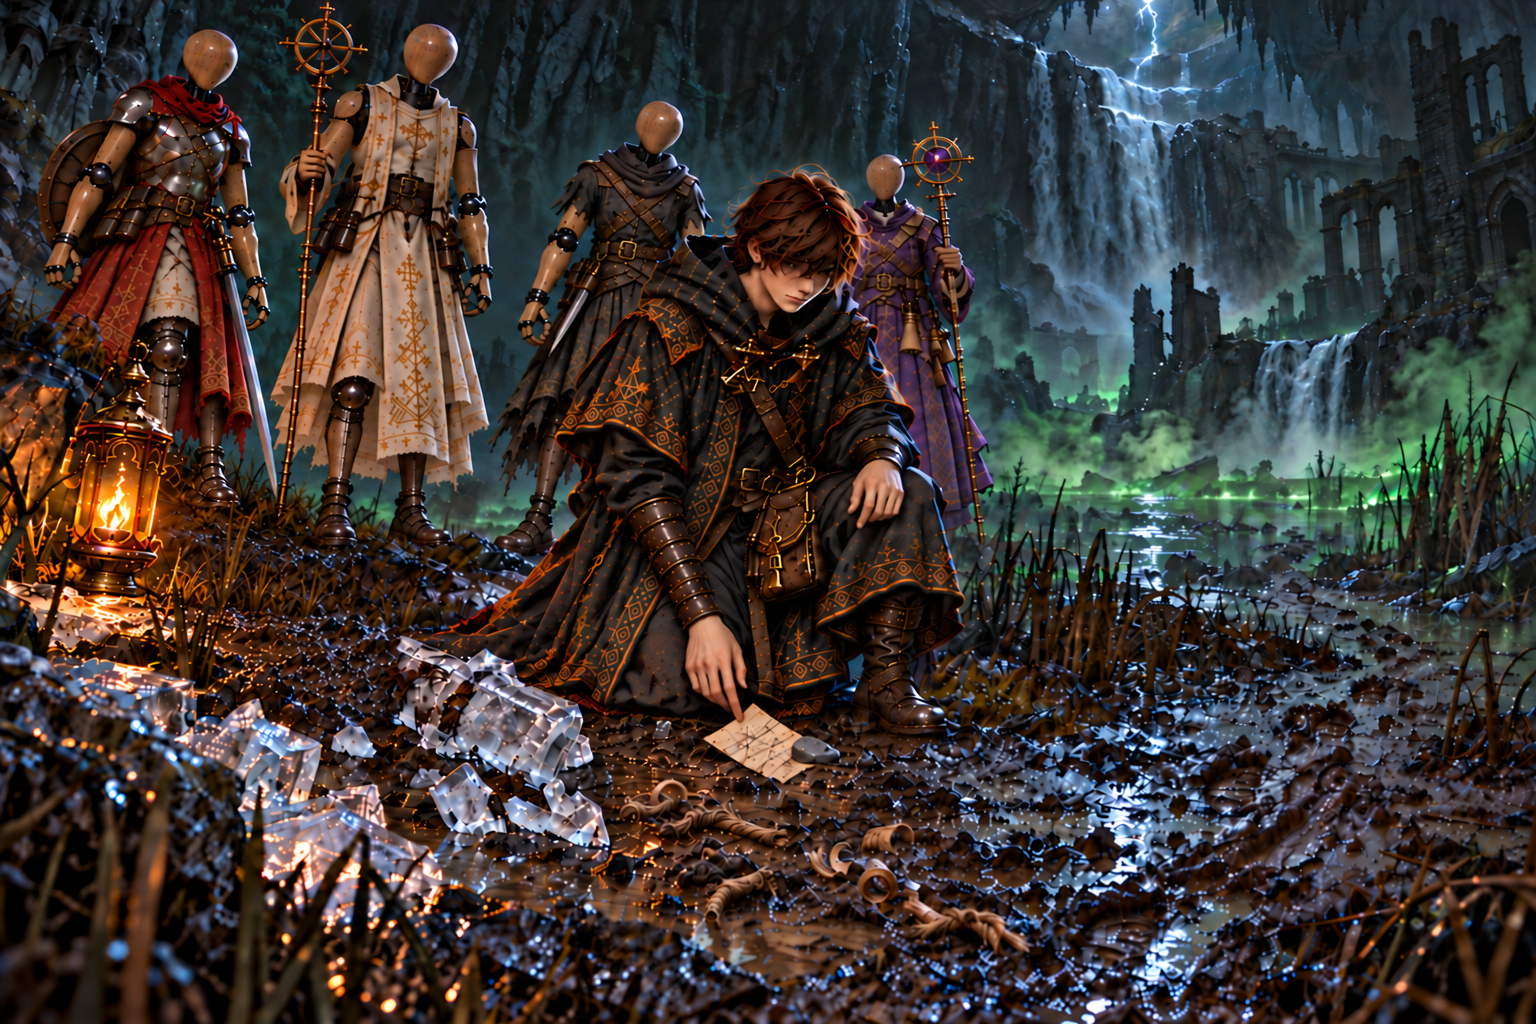
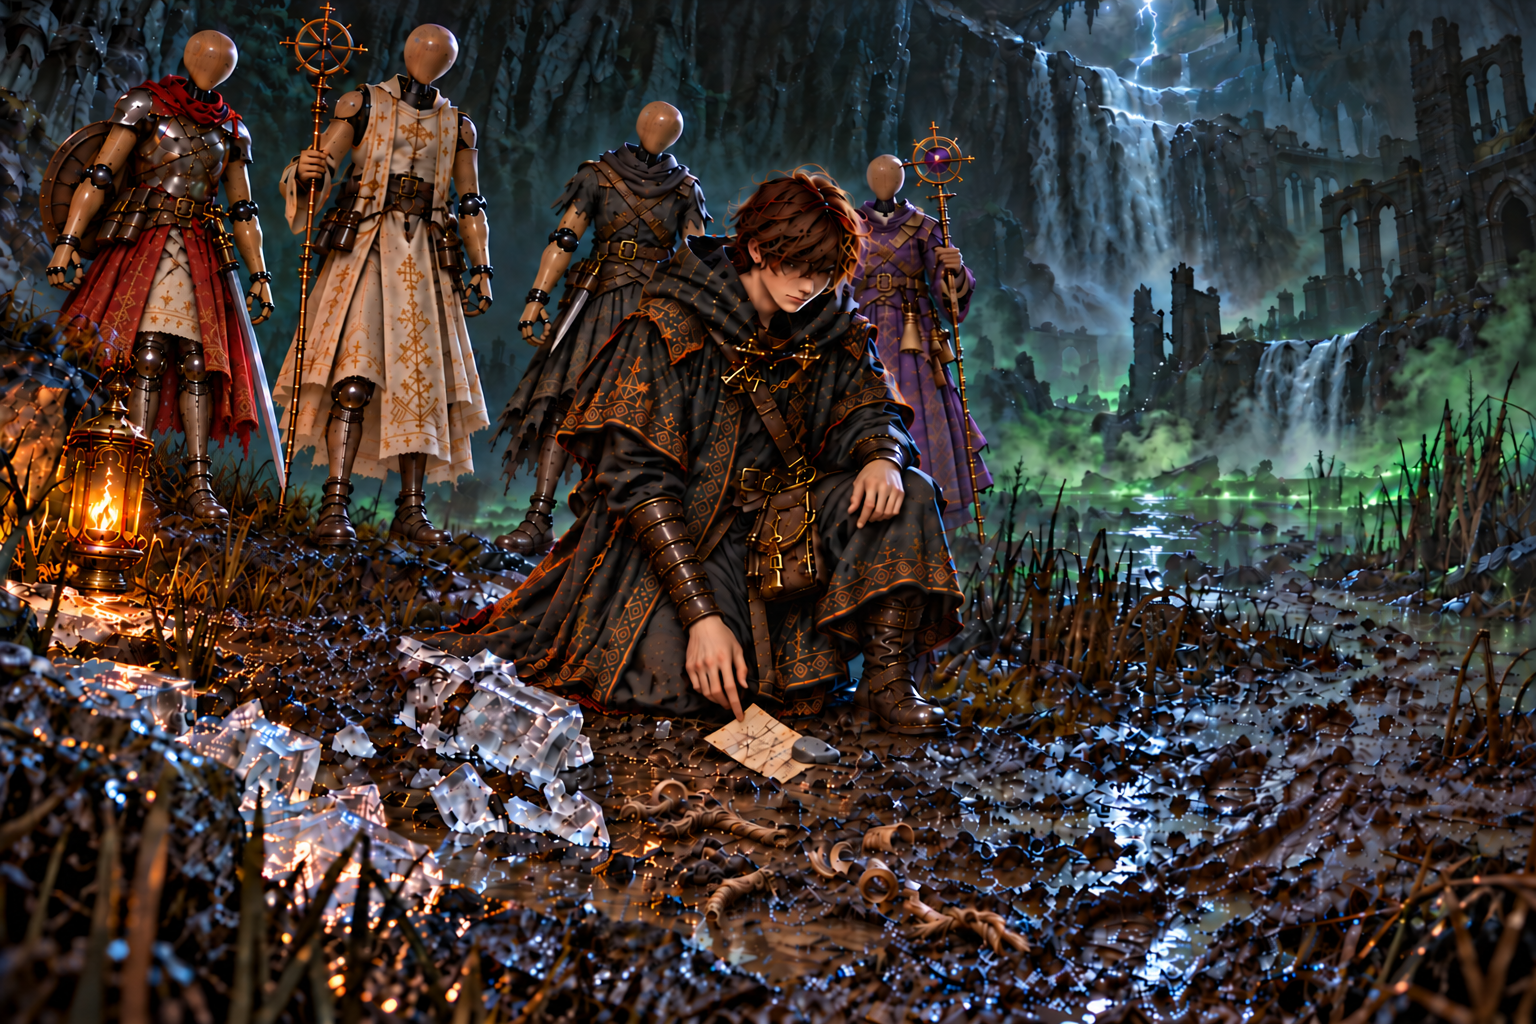
戦士の右脚の位置と太さを腰から描き直す

diff --git a/docs/art/codex-story-art-brief.md b/docs/art/codex-story-art-brief.md
@@ -219,6 +219,13 @@ Character reference sheet on a plain dark slate-blue background with soft even l
 
 ### A. 必須 (物語の筋や正典と食い違う)
 
+**A-48. 第七章 w26_splint「腕の木の添え木」戦士の右脚の位置と太さ** `art/story-review/chapter7/w26_splint.png` (済)
+- ユーザー指示: 戦士の右脚の位置と太さを修正。足先だけの補修をやめ、基準シートの戦士の立ち姿に合わせて、腰から二本の細身の腿・同じ高さの膝・同じ長さのすね・足首・足がつながるよう、下半身を描き直す。盾とランタンの陰になる部分は自然に隠す。
+- 戦士の上半身・盾・剣・ランタン、他の人物、氷、紙などの小道具、背景と光は保つ。修正前は `art/story-review/fixes/w26_splint-warrior-right-before.png` に保存。
+```text
+...except: REBUILD THE ENTIRE LOWER-BODY ANATOMY of the red-cloaked warrior doll at far left, from its existing belt and pelvis down to the ground. Use the WARRIOR in the doll reference sheet as the exact model of a simple balanced standing pose and slim articulated legs. The current warrior's legs have different apparent thicknesses, knee heights and shin lengths, and one leg is displaced sideways. Correct this underlying anatomy instead of patching just a boot. Keep the pelvis in its original place under the belt; TWO slim thighs descend from the left and right hip joints into TWO small black-iron knees at the SAME HEIGHT, then TWO equally long slim wooden shins with narrow fitted dark metal greaves, TWO compact ankles and TWO modest feet resting beneath their respective hips. BOTH legs should have matching thickness, adult proportions and structure like the reference, with tapered shins, not thick cylinders. In 1536x1024 coordinates, the hips are centered around x=165,y=245; place the knees approximately x=125 and x=195,y=350, ankles near x=115 and x=195,y=485, and feet near x=110 and x=195,y=510. The exact visible portions may be naturally hidden by the UNCHANGED shield, red cloth and foreground lantern. Knee diameter about 24-28 pixels, lower-leg width about 16-22 pixels, foot length about 35-40 pixels: neither leg should be substantially bulkier than the other. Remove the existing misplaced short thick shin under the outer red hem and any leftover overwide knee, duplicate leg outline, sideways armor or floating foot. The warrior's OWN RIGHT leg is at image-left and must align down from its own right hip rather than splay toward the left edge; also align the companion leg to keep the whole stance coherent. Keep both legs near-vertical and relaxed with only a slight natural outward angle of the feet. Retain the original waist, hanging red-and-white garment and red cloak; adapt their LOWER folds only enough for correct limb anatomy. Do not change the torso, head, arms, hands, sword, shield or lantern. Do not move or resize the warrior. Preserve every other part of the FIRST image: priest, thief, purple-robed mage, apprentice, faces, costumes, pose, ALL foreground ice shards, wood shavings, rope ends, one stone-weighted paper, footprints, waterfall, swamp, architecture, framing, detailed pixel texture, colors and light. Repaint only the exposed small areas where wrong legs were erased with matching cloth or mud. No extra limbs, no horizontal armor, no new objects or readable text. The other images are anatomy and identity references only; edit the FIRST scene image.
+```
+
 **A-47. 第七章 w26_splint「腕の木の添え木」戦士の足を体の下へ戻す** `art/story-review/chapter7/w26_splint.png` (済)
 - ユーザーの追加指示: 戦士の人業の足の位置を修正。ランタン右奥に残る横向きの脚・靴のような塊を消し、腰から下りたすねのすぐ下に、小さな接地した足を描き直す。足が横に長く伸びる形を残さない。
 - 戦士以外の人業・弟子・小道具・背景・光は保つ。修正前は `art/story-review/fixes/w26_splint-warrior-before.png` に保存。

diff --git a/art/story-review/fixes/w26_splint.md b/art/story-review/fixes/w26_splint.md
@@ -34,3 +34,10 @@
 
 - [戦士の足の修正前](w26_splint-warrior-before.png)
 - [戦士の足の拡大比較](w26_splint-warrior-review.png)
+
+## 戦士の右脚の位置と太さの修正
+
+2026-10-17。ユーザーの指摘により、戦士の足先だけでなく腰から下の構造を基準シートに合わせて描き直した。左右の膝を同じ高さに置き、腿とすねの太さ・長さをそろえ、両足をそれぞれの脚の下へ配置。盾とランタンによる自然な重なりを残し、他の人物と岸の小道具を維持した。
+
+- [右脚の修正前](w26_splint-warrior-right-before.png)
+- [右脚の修正前後と2倍拡大比較](w26_splint-warrior-right-review.png)
